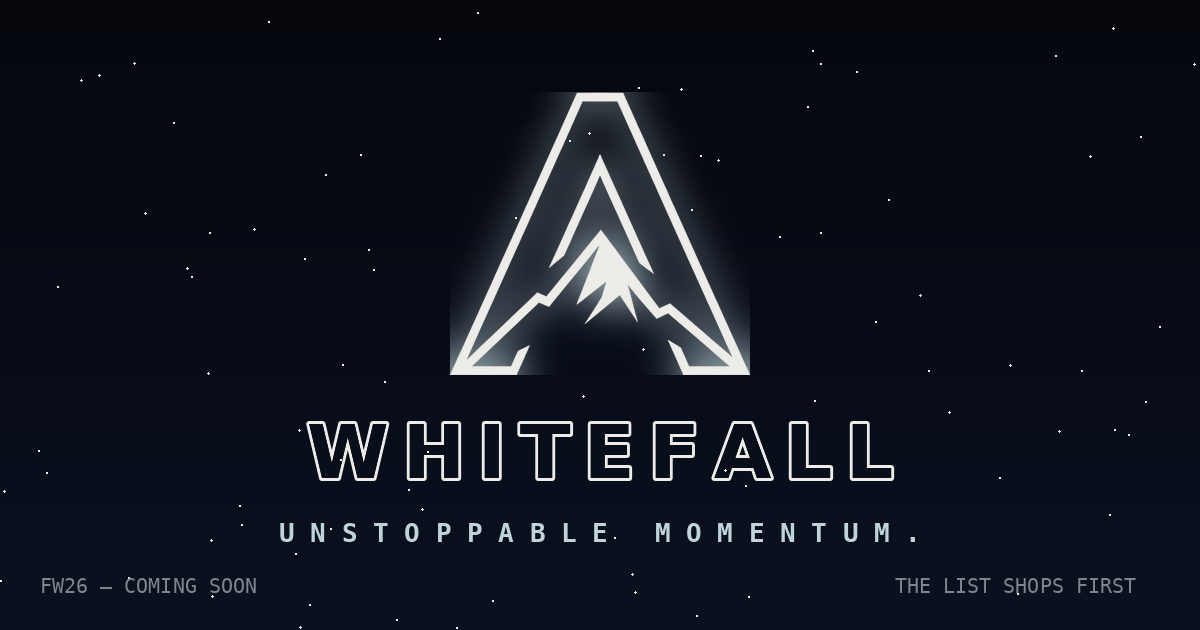
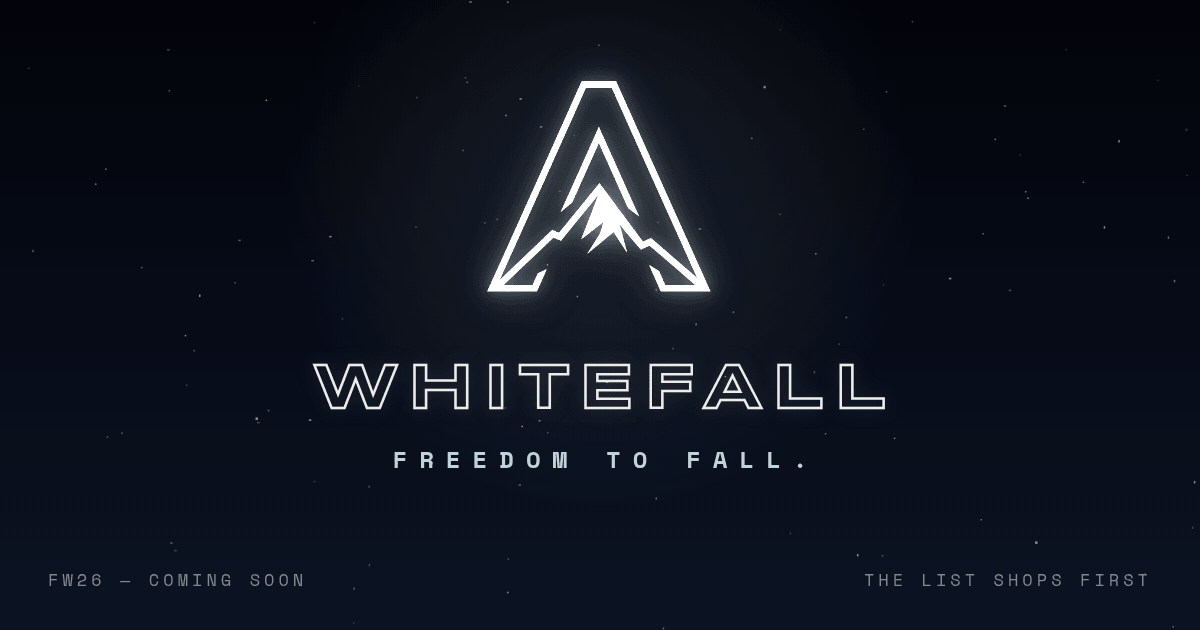
Redraw the share image with the real fonts and current tagline; add brand JSON-LD
The link preview still said UNSTOPPABLE MOMENTUM and had a boxy glow behind
the logo. Now FREEDOM TO FALL, glow follows the mark, 43 KB instead of 76 KB.
Organization structured data gives search engines the brand name, logo and
Instagram.

Claude-Session: https://claude.ai/code/session_01R5XgJ7TGt3MJQnsdanW6ZZ

diff --git a/index.html b/index.html
@@ -20,6 +20,9 @@
     <meta name="twitter:title" content="WHITEFALL — Freedom To Fall" />
     <meta name="twitter:description" content="FW26 is coming. The list shops first." />
     <meta name="twitter:image" content="https://YOUR-SITE-URL/og-image.png" />
+    <!-- Brand identity for search results. Kept on one line so local builds
+         (no domain known) drop it cleanly along with the tags above. -->
+    <script type="application/ld+json">{"@context":"https://schema.org","@type":"Organization","name":"Whitefall","url":"https://YOUR-SITE-URL/","logo":"https://YOUR-SITE-URL/logo.png","slogan":"Freedom To Fall","sameAs":["https://instagram.com/whitefall26"]}</script>
     <meta name="theme-color" content="#05070D" />
     <link rel="icon" type="image/png" href="/logo.png" />
     <link rel="apple-touch-icon" href="/logo.png" />
